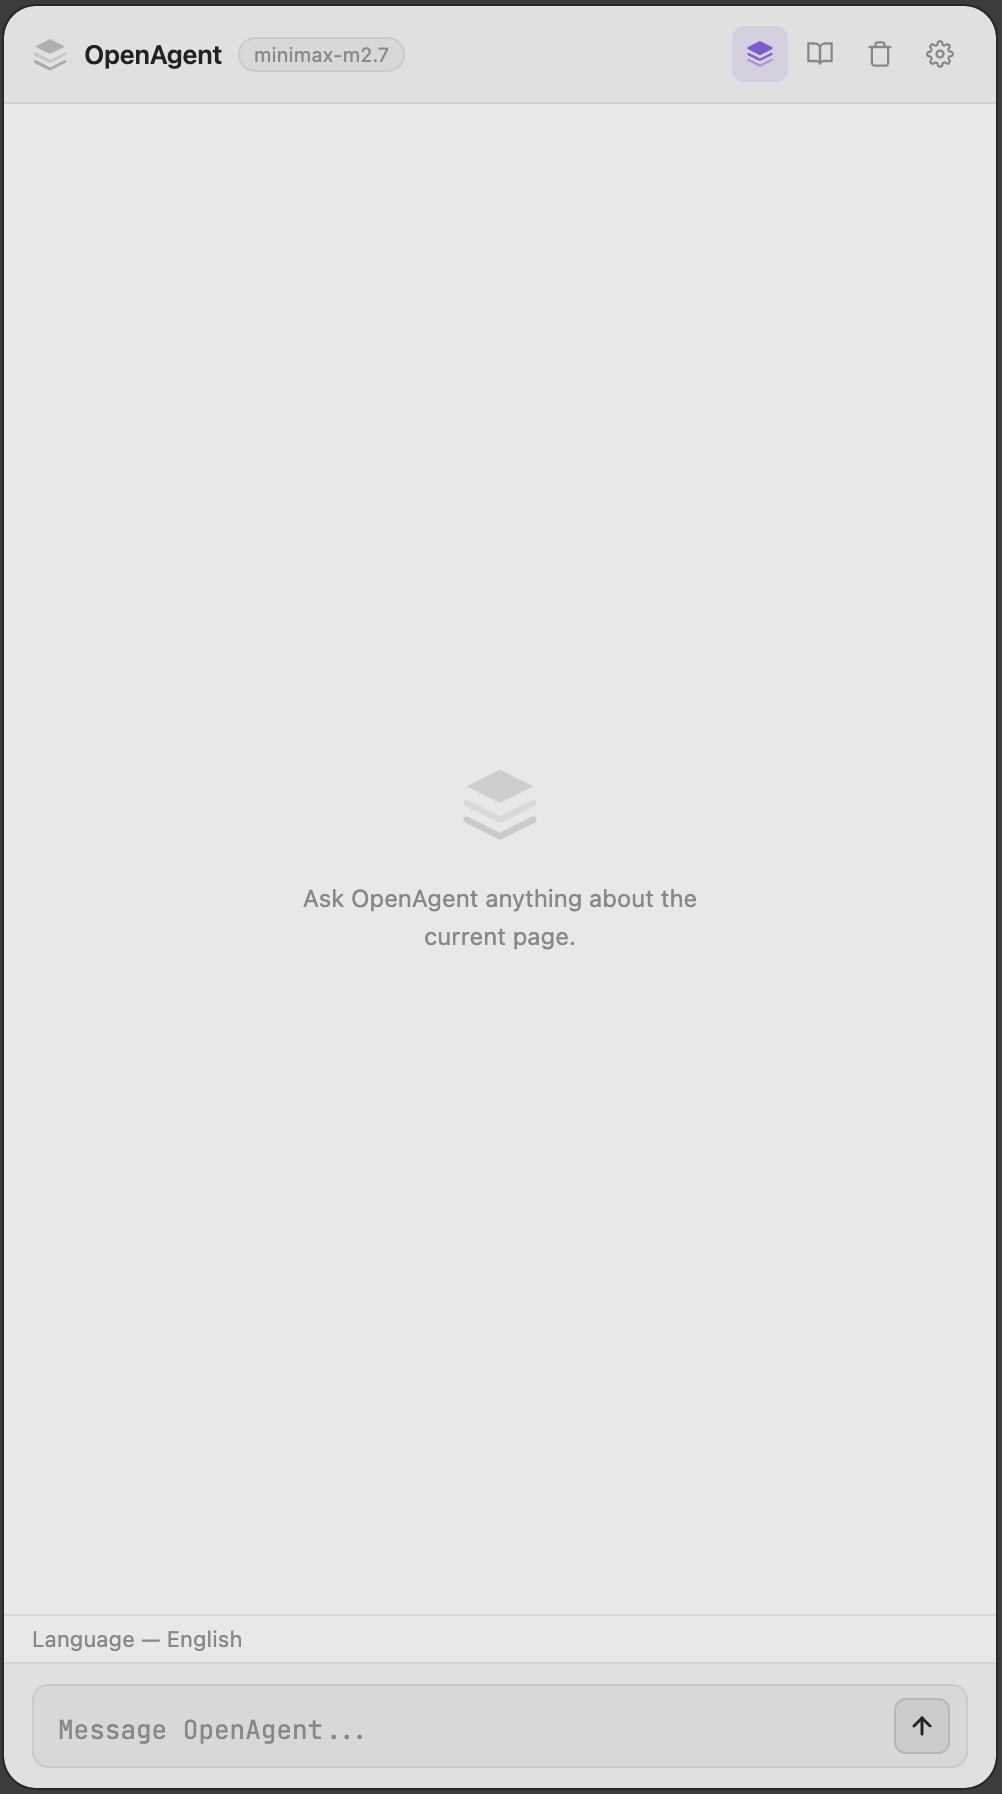
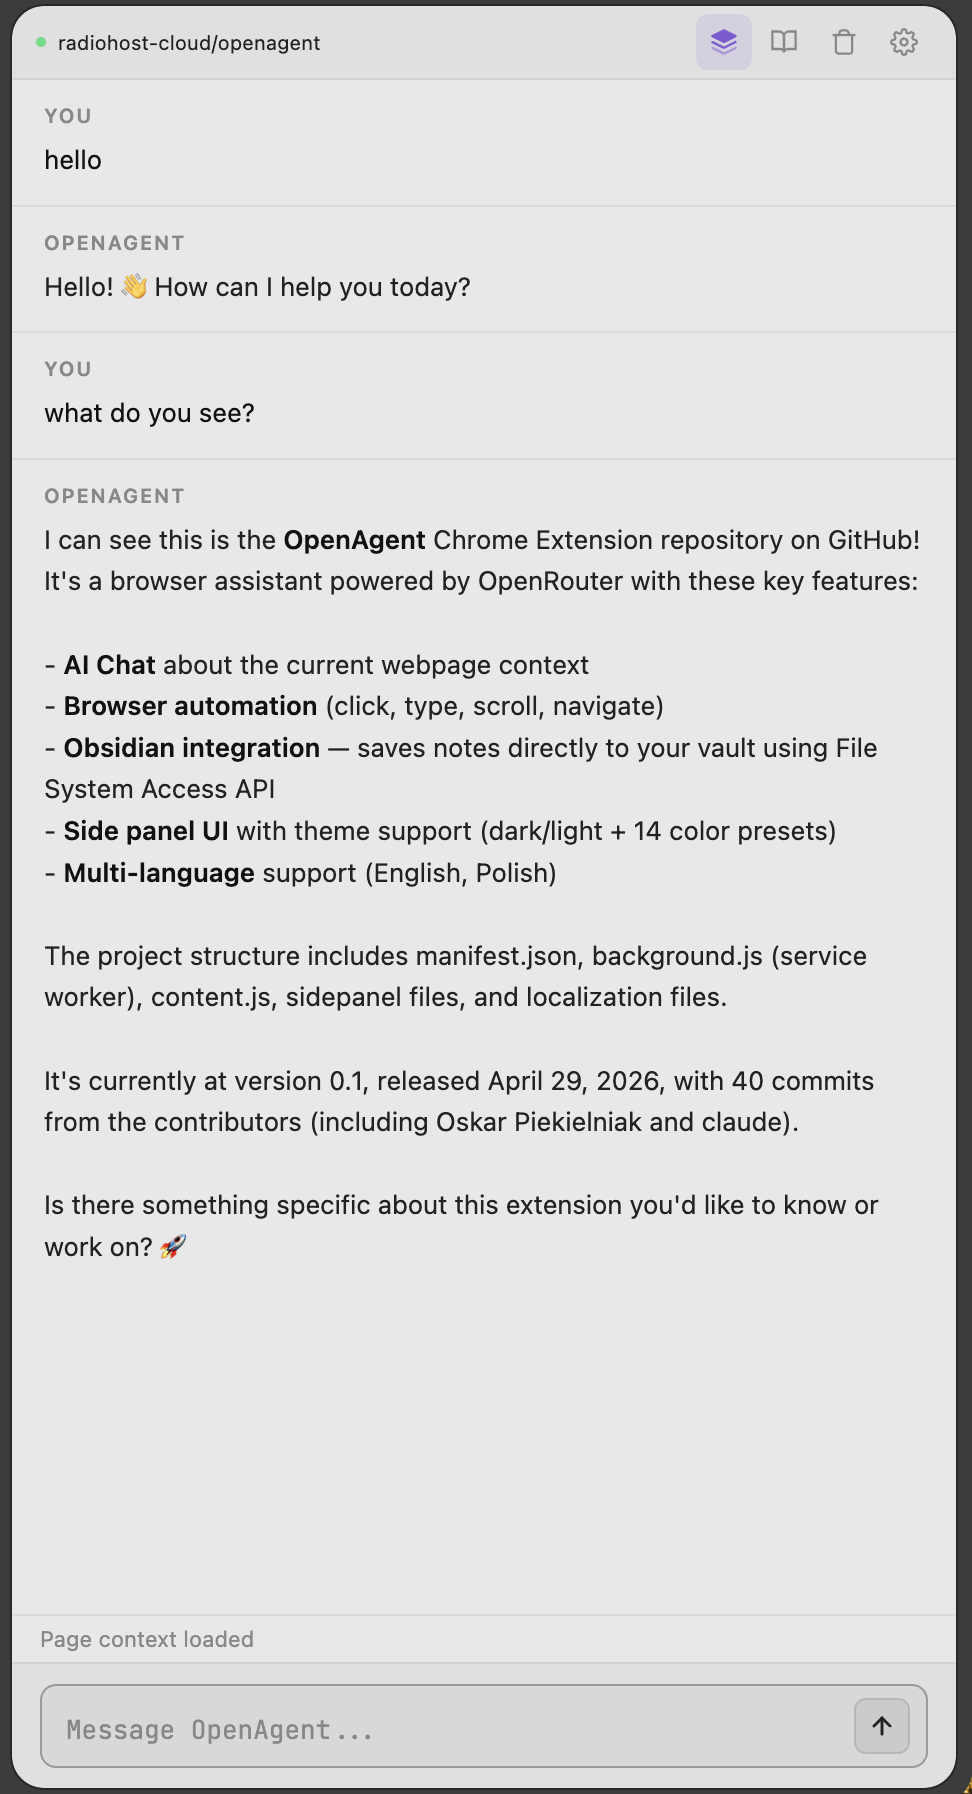
Update UI: compact header, font size, vault persistence, new screenshots
- Header: remove logo/name/model badge, add page context indicator
- Compact header padding (4px 12px), minimal branding
- Add font size selector in settings (small/medium/large)
- Model selection no longer closes settings, shows confirmation
- Vault persists path across sessions; vaultReady reflects active handle
- New 5 screenshots in README

diff --git a/sidepanel.js b/sidepanel.js
@@ -2,7 +2,7 @@
 
 const state = {
   messages: [],
-  settings: { apiKey: '', provider: 'openrouter', model: '', systemPrompt: '', theme: 'dark', preset: 'default', language: 'en', vaultPath: '' },
+  settings: { apiKey: '', provider: 'openrouter', model: '', systemPrompt: '', theme: 'dark', preset: 'default', language: 'en', vaultPath: '', fontSize: 'medium' },
   pageContext: null,
   isLoading: false,
   allModels: [],
@@ -59,6 +59,7 @@ const i18nStrings = {
     settingsVaultPathHint: 'Notes are saved directly to your vault.',
     settingsSelectFolder: 'Select folder',
     settingsChangeFolder: 'Change folder',
+    settingsFontSize: 'Font size',
   },
   pl: {
     msgLabelYou: 'Ty',
@@ -107,6 +108,7 @@ const i18nStrings = {
     settingsVaultPathHint: 'Notatki są zapisywane bezpośrednio w magazynie.',
     settingsSelectFolder: 'Wybierz folder',
     settingsChangeFolder: 'Zmień folder',
+    settingsFontSize: 'Wielkość czcionki',
   },
   es: {
     msgLabelYou: 'Tú',
@@ -154,6 +156,7 @@ const i18nStrings = {
     settingsVaultPathHint: 'Las notas se guardan directamente en tu bóveda.',
     settingsSelectFolder: 'Seleccionar carpeta',
     settingsChangeFolder: 'Cambiar carpeta',
+    settingsFontSize: 'Tamaño de fuente',
   },
   fr: {
     msgLabelYou: 'Vous',
@@ -201,6 +204,7 @@ const i18nStrings = {
     settingsVaultPathHint: 'Les notes sont enregistrées directement dans votre coffre.',
     settingsSelectFolder: 'Sélectionner un dossier',
     settingsChangeFolder: 'Modifier le dossier',
+    settingsFontSize: 'Taille de police',
   },
   de: {
     msgLabelYou: 'Sie',
@@ -248,6 +252,7 @@ const i18nStrings = {
     settingsVaultPathHint: 'Notizen werden direkt in Ihrem Tresor gespeichert.',
     settingsSelectFolder: 'Ordner auswählen',
     settingsChangeFolder: 'Ordner ändern',
+    settingsFontSize: 'Schriftgröße',
   },
   ru: {
     msgLabelYou: 'Вы',
@@ -295,6 +300,7 @@ const i18nStrings = {
     settingsVaultPathHint: 'Заметки сохраняются напрямую в хранилище.',
     settingsSelectFolder: 'Выбрать папку',
     settingsChangeFolder: 'Изменить папку',
+    settingsFontSize: 'Размер шрифта',
   },
 };
 
@@ -317,7 +323,7 @@ const dom = {
   modelList: $('#modelList'),
   modelSearch: $('#modelSearch'),
   modelHint: $('#modelHint'),
-  modelBadge: $('#modelBadge'),
+  headerCtx: $('#headerCtx'),
   systemPromptInput: $('#systemPromptInput'),
   settingsStatus: $('#settingsStatus'),
   status: $('#status'),
@@ -325,6 +331,7 @@ const dom = {
   themeLight: $('#themeLight'),
   themePreset: $('#themePreset'),
   langSelect: $('#langSelect'),
+  fontSizeSelect: $('#fontSizeSelect'),
   vaultPathInput: $('#vaultPathInput'),
   vaultSelectBtn: $('#vaultSelectBtn'),
   vaultStatus: $('#vaultStatusDot'),
@@ -358,6 +365,10 @@ function applyTheme(theme, preset = 'default') {
   document.body.dataset.preset = preset;
   dom.themeDark.classList.toggle('active', theme === 'dark');
   dom.themeLight.classList.toggle('active', theme === 'light');
+}
+
+function applyFontSize(size) {
+  document.body.dataset.fontSize = size;
 }
 
 // ─── Vault (File System Access API) ─────────────────────────────────────────
@@ -456,6 +467,8 @@ async function init() {
   applyTheme(state.settings.theme, state.settings.preset);
   dom.langSelect.value = state.settings.language;
   dom.themePreset.value = state.settings.preset || 'default';
+  dom.fontSizeSelect.value = state.settings.fontSize;
+  applyFontSize(state.settings.fontSize);
   renderMessages();
   bindEvents();
   loadModels();
@@ -535,6 +548,12 @@ function bindEvents() {
   dom.themePreset.addEventListener('change', () => {
     state.settings.preset = dom.themePreset.value;
     applyTheme(state.settings.theme, state.settings.preset);
+  });
+
+  dom.fontSizeSelect.addEventListener('change', () => {
+    state.settings.fontSize = dom.fontSizeSelect.value;
+    applyFontSize(state.settings.fontSize);
+    sendBgMessage({ type: 'settings.save', data: { ...state.settings } }).catch(() => {});
   });
 
   dom.langSelect.addEventListener('change', () => {
@@ -691,8 +710,10 @@ function renderModelList(models) {
       state.settings.model = model.id;
       await sendBgMessage({ type: 'settings.save', data: { ...state.settings } });
       updateModelBadge();
-      setStatus(escapeHtml(name), 'success');
-      setTimeout(() => toggleModal(false), 300);
+      dom.modelHint.textContent = '✓ ' + name;
+      setTimeout(() => {
+        dom.modelHint.textContent = state.allModels.length + ' ' + i18n('settingsModelsHint');
+      }, 2000);
     });
     dom.modelList.appendChild(item);
   }
@@ -893,20 +914,19 @@ function prependPageContext(metadata) {
   const existing = dom.messages.querySelector('.page-ctx');
   if (existing) existing.remove();
 
-  const div = document.createElement('div');
-  div.className = 'page-ctx';
-  div.innerHTML = `
-    <span class="ctx-dot"></span>
-    <span class="ctx-title">${escapeHtml(metadata.title || 'Untitled')}</span>
-    <span class="ctx-url">${escapeHtml(metadata.url || '')}</span>
-  `;
-  dom.messages.prepend(div);
+  if (dom.headerCtx) {
+    dom.headerCtx.innerHTML = `
+      <span class="ctx-dot"></span>
+      <span class="ctx-title">${escapeHtml(metadata.title || 'Untitled')}</span>
+    `;
+  }
 }
 
 function clearConversation() {
   state.messages = [];
   state.pageContext = null;
   state.currentVaultFilename = null;
+  if (dom.headerCtx) dom.headerCtx.innerHTML = '';
   renderMessages();
 }
 
@@ -1005,14 +1025,6 @@ function setStatus(text, type = '') {
 
 function updateModelBadge() {
   const model = state.settings.model;
-  if (model) {
-    const short = model.includes('/')
-      ? model.split('/')[1].replace(/-(?:2024|2025)[0-9]*$/, '')
-      : model;
-    dom.modelBadge.textContent = short;
-  } else {
-    dom.modelBadge.textContent = '-';
-  }
   if (model) {
     dom.status.textContent = i18n('statusModel') + ' ' + (model.includes('/') ? model.split('/')[1].replace(/-(?:2024|2025)[0-9]*$/, '') : model);
     dom.status.className = 'status';

diff --git a/sidepanel.html b/sidepanel.html
@@ -14,13 +14,7 @@
       <!-- Header -->
       <header class="header">
         <div class="header-brand">
-          <svg class="brand-icon" viewBox="0 0 24 24" fill="none" xmlns="http://www.w3.org/2000/svg">
-            <path d="M12 2L2 7l10 5 10-5-10-5z" fill="currentColor" opacity="0.9"/>
-            <path d="M2 17l10 5 10-5" stroke="currentColor" stroke-width="2" stroke-linecap="round" stroke-linejoin="round"/>
-            <path d="M2 12l10 5 10-5" stroke="currentColor" stroke-width="2" stroke-linecap="round" stroke-linejoin="round" opacity="0.5"/>
-          </svg>
-          <span class="brand-name">OpenAgent</span>
-          <span id="modelBadge" class="model-badge">-</span>
+          <div id="headerCtx" class="header-ctx"></div>
         </div>
         <div class="header-actions">
           <button id="vaultBtn" class="header-btn" data-i18n-title="btnVault" title="Auto-save to Obsidian (off)">
@@ -100,6 +94,8 @@
                 <option value="everforest">Everforest</option>
               </select>
             </div>
+          </div>
+          <div class="settings-row">
             <div class="form-group form-group--sm">
               <label data-i18n="settingsLanguage">Language</label>
               <select id="langSelect" class="settings-select">
@@ -109,6 +105,14 @@
                 <option value="fr">Français</option>
                 <option value="de">Deutsch</option>
                 <option value="ru">Русский</option>
+              </select>
+            </div>
+            <div class="form-group form-group--sm">
+              <label data-i18n="settingsFontSize">Font size</label>
+              <select id="fontSizeSelect" class="settings-select">
+                <option value="small">Small</option>
+                <option value="medium">Medium</option>
+                <option value="large">Large</option>
               </select>
             </div>
           </div>

diff --git a/sidepanel.css b/sidepanel.css
@@ -12,7 +12,7 @@
   --user-text: #d9d9d9;
   --font: 'JetBrains Mono', 'SF Mono', 'Fira Code', 'Consolas', monospace;
   font-family: var(--font);
-  font-size: 13px;
+  font-size: var(--font-size);
   color-scheme: dark;
 }
 
@@ -21,7 +21,13 @@ html, body {
   overflow: hidden;
   background: var(--bg);
   color: var(--text);
+  font-size: var(--font-size);
+  transition: font-size 0.2s;
 }
+
+:root, [data-font-size="medium"] { --font-size: 13px; }
+[data-font-size="small"] { --font-size: 11px; }
+[data-font-size="large"] { --font-size: 15px; }
 
 #app {
   display: flex;
@@ -35,7 +41,7 @@ html, body {
   display: flex;
   align-items: center;
   justify-content: space-between;
-  padding: 10px 14px;
+  padding: 4px 12px;
   border-bottom: 1px solid var(--border);
   background: var(--surface);
   flex-shrink: 0;
@@ -47,6 +53,33 @@ html, body {
   align-items: center;
   gap: 8px;
   -webkit-app-region: no-drag;
+  min-width: 0;
+  flex: 1;
+}
+
+.header-ctx {
+  display: flex;
+  align-items: center;
+  gap: 6px;
+  font-size: 10px;
+  color: var(--muted);
+  min-width: 0;
+  flex: 1;
+  overflow: hidden;
+}
+
+.header-ctx .ctx-dot {
+  width: 5px;
+  height: 5px;
+  border-radius: 50%;
+  background: #4ade80;
+  flex-shrink: 0;
+}
+
+.header-ctx .ctx-title {
+  white-space: nowrap;
+  overflow: hidden;
+  text-overflow: ellipsis;
 }
 
 .brand-icon {
@@ -160,7 +193,6 @@ html, body {
 .message.assistant .message-label { color: #888888; }
 
 .message-content {
-  font-size: 13px;
   line-height: 1.6;
   color: var(--text);
   white-space: pre-wrap;

diff --git a/background.js b/background.js
@@ -12,6 +12,7 @@ const STORAGE_KEYS = {
   VAULT_PATH: 'openagent_vault_path',
   VAULT_HANDLE: 'openagent_vault_handle',
   AUTO_VAULT: 'openagent_auto_vault',
+  FONT_SIZE: 'openagent_font_size',
 };
 
 // ─── Auto-inject content script on page load ───────────────────────────────────
@@ -159,6 +160,7 @@ async function loadSettings() {
     language: result[STORAGE_KEYS.LANGUAGE] || 'en',
     vaultPath: result[STORAGE_KEYS.VAULT_PATH] || '',
     autoVault: result[STORAGE_KEYS.AUTO_VAULT] || false,
+    fontSize: result[STORAGE_KEYS.FONT_SIZE] || 'medium',
   };
 }
 
@@ -172,6 +174,7 @@ async function saveSettings(data) {
     [STORAGE_KEYS.PRESET]: data.preset || 'default',
     [STORAGE_KEYS.LANGUAGE]: data.language || 'en',
     [STORAGE_KEYS.VAULT_PATH]: data.vaultPath || '',
+    [STORAGE_KEYS.FONT_SIZE]: data.fontSize || 'medium',
   });
   return { ok: true };
 }

diff --git a/README.md b/README.md
@@ -8,6 +8,8 @@ Browser assistant powered by OpenRouter. Chat about any webpage, automate action
   <img src="docs/screenshot1.png" width="200"/>
   <img src="docs/screenshot2.png" width="200"/>
   <img src="docs/screenshot3.png" width="200"/>
+  <img src="docs/screenshot4.png" width="200"/>
+  <img src="docs/screenshot5.png" width="200"/>
 </p>
 
 ## Features
